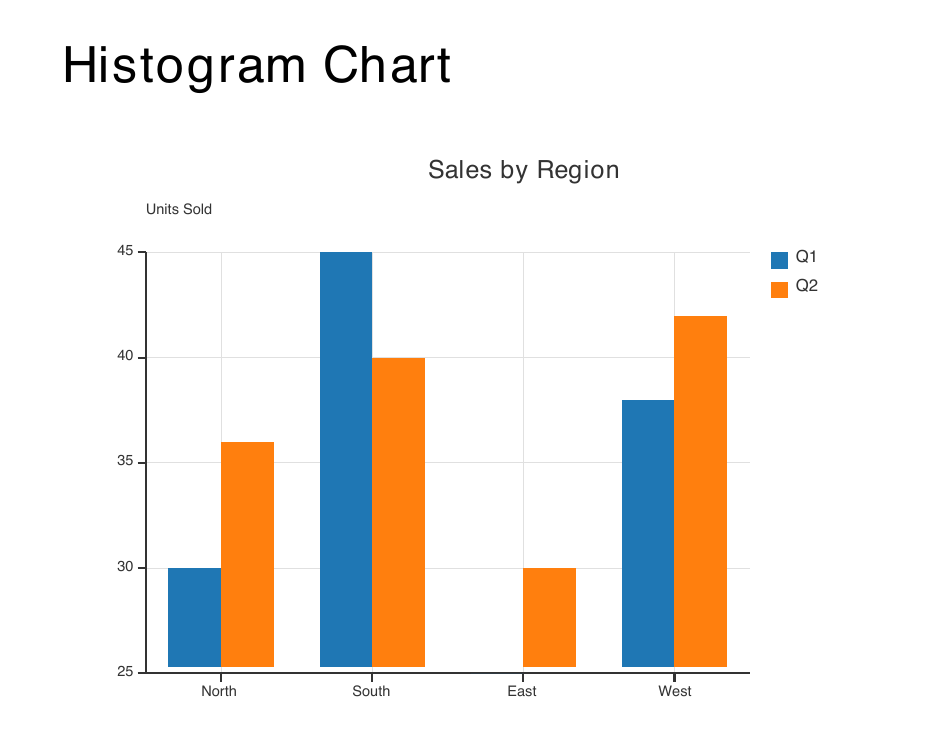
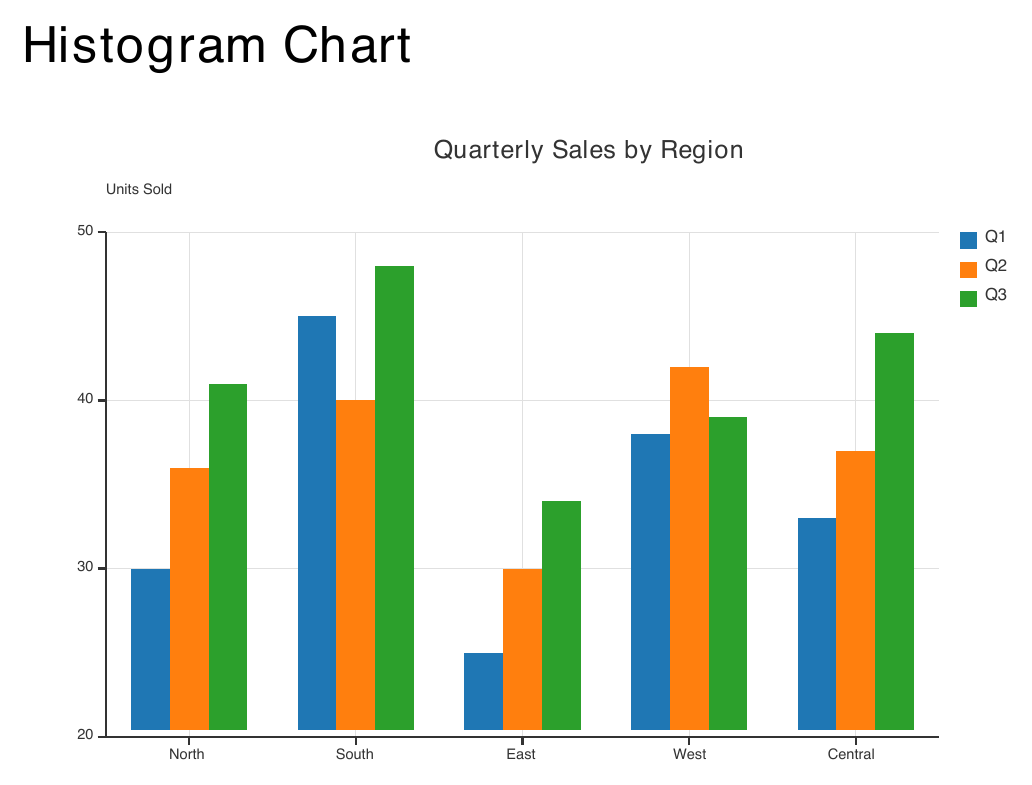
docs(loom): richer chart examples, add Canvas+Chart composition
Replace the single-series/few-points chart examples with more
realistic, multi-series data (three age groups for scatter, a
crossing two-app trend for spline, three product lines for
line/histogram, six categories for pie), with matching regenerated
screenshots.

Add a "Combining Charts with Canvas" section demonstrating that
<Chart> nests inside <Canvas> like any other node: a multi-chart
dashboard (pie + histogram + line on one canvas) and a chart
decorated with custom stat-badge callouts drawn as plain
Rectangle/Text siblings.

diff --git a/doc/source/craft_language/charts.rst b/doc/source/craft_language/charts.rst
@@ -100,33 +100,38 @@ series.
 
 .. code-block:: xml
 
-   <Chart style="scatter" width="450" height="280" title="Height vs. Weight"
+   <Chart style="scatter" width="480" height="300" title="Height vs. Weight by Age Group"
           x_label="Height (cm)" y_label="Weight (kg)">
-     <Series name="Group A" color="#1F77B4" model='[[160,55],[165,60],[170,68]]' />
-     <Series name="Group B" color="#D62728" model='[[162,50],[168,58],[172,63]]' />
+     <Series name="Teens" color="#2CA02C" model='[[150,42],[155,48],[158,50],[162,55]]' />
+     <Series name="Adults" color="#1F77B4" model='[[160,55],[165,60],[170,68],[175,72]]' />
+     <Series name="Seniors" color="#D62728" model='[[158,60],[163,65],[168,70],[172,74]]' />
    </Chart>
 
 .. image:: ../_static/charts/scatter.png
-   :alt: Scatter chart example with two series
-   :width: 500px
+   :alt: Scatter chart example with three series
+   :width: 550px
 
 Spline
 ~~~~~~
 
 ``style="spline"`` draws a smooth, interpolated curve through each series' points
 (plus a marker dot at every point) -- for a trend that should read as continuous
-rather than piecewise-linear.
+rather than piecewise-linear. Two series with crossing trends (below) show the
+interpolation staying smooth right through the crossover.
 
 .. code-block:: xml
 
-   <Chart style="spline" width="450" height="280" title="Monthly Active Users"
+   <Chart style="spline" width="480" height="300" title="Monthly Active Users: App A vs. App B"
           x_label="Month" y_label="Users (k)">
-     <Series name="2025" color="#2CA02C" model='[[1,12],[2,15],[3,14],[4,20],[5,26]]' />
+     <Series name="App A" color="#2CA02C" model='[[1,12],[2,15],[3,14],[4,20],[5,26],[6,24],
+       [7,30],[8,35],[9,33],[10,38],[11,44],[12,50]]' />
+     <Series name="App B" color="#9467BD" model='[[1,28],[2,27],[3,30],[4,29],[5,33],[6,36],
+       [7,34],[8,31],[9,29],[10,27],[11,26],[12,24]]' />
    </Chart>
 
 .. image:: ../_static/charts/spline.png
-   :alt: Spline chart example
-   :width: 500px
+   :alt: Spline chart example with two crossing series
+   :width: 550px
 
 Line
 ~~~~
@@ -137,15 +142,16 @@ points are connected.
 
 .. code-block:: xml
 
-   <Chart style="line" width="450" height="280" title="Quarterly Revenue"
+   <Chart style="line" width="480" height="300" title="Quarterly Revenue by Product Line"
           x_label="Quarter" y_label="Revenue ($k)">
-     <Series name="Product X" color="#9467BD" model='[[1,40],[2,55],[3,50],[4,70]]' />
-     <Series name="Product Y" color="#FF7F0E" model='[[1,25],[2,30],[3,45],[4,42]]' />
+     <Series name="Hardware" color="#9467BD" model='[[1,40],[2,55],[3,50],[4,70],[5,65],[6,82]]' />
+     <Series name="Software" color="#FF7F0E" model='[[1,25],[2,30],[3,45],[4,42],[5,58],[6,60]]' />
+     <Series name="Services" color="#17BECF" model='[[1,15],[2,18],[3,20],[4,26],[5,24],[6,30]]' />
    </Chart>
 
 .. image:: ../_static/charts/line.png
-   :alt: Line chart example with two series
-   :width: 500px
+   :alt: Line chart example with three series
+   :width: 550px
 
 Histogram
 ~~~~~~~~~
@@ -157,20 +163,24 @@ there's more than one series, across groups within each category. Use the
 
 .. code-block:: xml
 
-   <Chart style="histogram" width="450" height="280" title="Sales by Region"
+   <Chart style="histogram" width="560" height="320" title="Quarterly Sales by Region"
           y_label="Units Sold">
-     <Series name="Q1" color="#1F77B4" model='[{"North":30},{"South":45},{"East":25}]' />
-     <Series name="Q2" color="#FF7F0E" model='[{"North":36},{"South":40},{"East":30}]' />
+     <Series name="Q1" color="#1F77B4" model='[{"North":30},{"South":45},{"East":25},
+       {"West":38},{"Central":33}]' />
+     <Series name="Q2" color="#FF7F0E" model='[{"North":36},{"South":40},{"East":30},
+       {"West":42},{"Central":37}]' />
+     <Series name="Q3" color="#2CA02C" model='[{"North":41},{"South":48},{"East":34},
+       {"West":39},{"Central":44}]' />
    </Chart>
 
 .. image:: ../_static/charts/histogram.png
-   :alt: Histogram chart example with two series
-   :width: 500px
+   :alt: Histogram chart example with three series across five categories
+   :width: 600px
 
 .. note::
 
    The Y axis auto-zooms to the actual data range rather than always starting at
-   zero (visible above: the axis starts at 25, not 0) -- so small differences
+   zero (visible above: the axis starts at 20, not 0) -- so small differences
    between bars stay readable. A bar never sits flush against a non-zero baseline;
    a small gap always separates it from the axis line.
 
@@ -183,16 +193,113 @@ share of the total. Unlike the other styles, a pie chart has no axes at all. Use
 
 .. code-block:: xml
 
-   <Chart style="pie" width="450" height="280" title="Market Share">
-     <Series model='[{"Alpha":35},{"Beta":25},{"Gamma":20},{"Delta":12},{"Epsilon":8}]' />
+   <Chart style="pie" width="480" height="300" title="Revenue by Product Line">
+     <Series model='[{"Hardware":32},{"Software":27},{"Services":18},
+       {"Support":13},{"Training":6},{"Other":4}]' />
    </Chart>
 
 .. image:: ../_static/charts/pie.png
-   :alt: Pie chart example
-   :width: 500px
+   :alt: Pie chart example with six slices
+   :width: 550px
 
 A series with a single point (one ``<Series>`` per slice) keeps that series' own
 ``color``; a series with multiple points (one ``<Series>`` holding a whole category
 breakdown, as above) cycles each of its slices through the default palette instead,
 since a single series color can't distinguish them. Points with a non-positive value
 are skipped.
+
+Combining Charts with Canvas
+-----------------------------
+
+Because ``<Chart>`` is just another node, it can be nested as a child of ``<Canvas>``
+(see :doc:`shapes`) alongside ordinary shapes and text -- each positioned by its own
+``x``/``y``, exactly like any other canvas child. This is how a multi-chart dashboard
+or a chart annotated with custom callouts is built: there's no dedicated "dashboard"
+or "annotation" node, just composition.
+
+Multiple Charts on One Canvas
+~~~~~~~~~~~~~~~~~~~~~~~~~~~~~~
+
+A ``<Canvas>`` sized for a full widget grid, with three independent ``<Chart>``
+children (a pie, a histogram, and a line chart) plus a heading and divider lines
+drawn as ordinary shapes:
+
+.. code-block:: xml
+
+   <Canvas width="600" height="600" background_color="#FAFAFA"
+           border_color="#DDDDDD" border_width="1">
+     <Text x="20" y="16" font_size="13" bold="true">Q1-Q3 Business Overview</Text>
+     <Line x1="20" y1="40" x2="580" y2="40" border_color="#DDDDDD" border_width="1"/>
+
+     <Chart x="10" y="50" style="pie" width="290" height="230" title="Revenue Split">
+       <Series model='[{"Hardware":32},{"Software":27},{"Services":18},
+         {"Support":13},{"Other":10}]' />
+     </Chart>
+     <Chart x="300" y="50" style="histogram" width="290" height="230"
+            title="Regional Sales" y_label="Units">
+       <Series name="Q1" color="#1F77B4" model='[{"North":30},{"South":45},
+         {"East":25},{"West":38}]' />
+       <Series name="Q2" color="#FF7F0E" model='[{"North":36},{"South":40},
+         {"East":30},{"West":42}]' />
+     </Chart>
+
+     <Line x1="20" y1="295" x2="580" y2="295" border_color="#DDDDDD" border_width="1"/>
+
+     <Chart x="10" y="305" style="line" width="580" height="270" title="Monthly Growth Trend"
+            x_label="Month" y_label="Revenue ($k)">
+       <Series name="2025" color="#2CA02C" model='[[1,40],[2,45],[3,50],[4,55],
+         [5,60],[6,58],[7,65],[8,72],[9,80]]' />
+       <Series name="2024" color="#9467BD" model='[[1,30],[2,32],[3,35],[4,38],
+         [5,40],[6,42],[7,44],[8,48],[9,50]]' />
+     </Chart>
+   </Canvas>
+
+.. image:: ../_static/charts/dashboard.png
+   :alt: Dashboard combining a pie chart, a histogram, and a line chart on one canvas
+   :width: 650px
+
+Each ``<Chart>`` lays out its own chrome (title, axes, legend) independently within
+the bounding box its own ``width``/``height`` give it -- the parent ``<Canvas>``
+doesn't know or care that its children happen to be charts.
+
+Annotating a Chart with Custom Callouts
+~~~~~~~~~~~~~~~~~~~~~~~~~~~~~~~~~~~~~~~~
+
+A ``<Chart>`` has no built-in support for callouts or stat badges -- but wrapping it
+in a ``<Canvas>`` and adding ordinary ``<Rectangle>``/``<Text>`` siblings below it
+gets the same effect:
+
+.. code-block:: xml
+
+   <Canvas width="480" height="370" border_color="#DDDDDD" border_width="1">
+     <Chart x="0" y="0" style="spline" width="480" height="300"
+            title="Monthly Active Users: App A vs. App B"
+            x_label="Month" y_label="Users (k)">
+       <Series name="App A" color="#2CA02C" model='[[1,12],[2,15],[3,14],[4,20],
+         [5,26],[6,24],[7,30],[8,35],[9,33],[10,38],[11,44],[12,50]]' />
+       <Series name="App B" color="#9467BD" model='[[1,28],[2,27],[3,30],[4,29],
+         [5,33],[6,36],[7,34],[8,31],[9,29],[10,27],[11,26],[12,24]]' />
+     </Chart>
+
+     <Rectangle x="10" y="310" width="145" height="46"
+                background_color="#E8F5E9" border_color="#2CA02C" border_width="1"/>
+     <Text x="18" y="317" font_size="9" bold="true" color="#2CA02C">Peak: 50k</Text>
+     <Text x="18" y="332" font_size="7" color="#555555">App A, month 12</Text>
+
+     <Rectangle x="320" y="310" width="150" height="46"
+                background_color="#E3F2FD" border_color="#1F77B4" border_width="1"/>
+     <Text x="328" y="317" font_size="9" bold="true" color="#1F77B4">Growth: +317%</Text>
+     <Text x="328" y="332" font_size="7" color="#555555">App A, year over year</Text>
+   </Canvas>
+
+.. image:: ../_static/charts/annotated.png
+   :alt: Spline chart with custom stat-badge callouts below it
+   :width: 550px
+
+.. note::
+
+   A ``<Chart>``'s own internal plot coordinates (where a given data point actually
+   lands in pixels) aren't exposed back to the ``.craft`` file -- so a callout can be
+   positioned relative to the chart's outer bounding box (as above), but not
+   pixel-aligned to one specific data point without already knowing the chart's own
+   axis-scaling.
